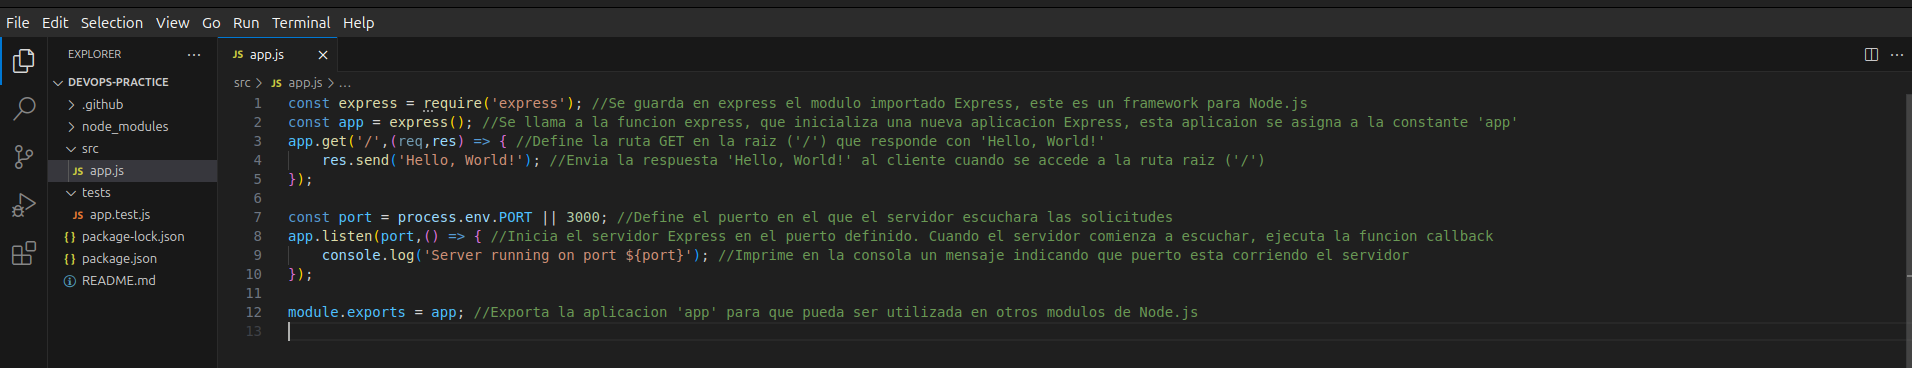
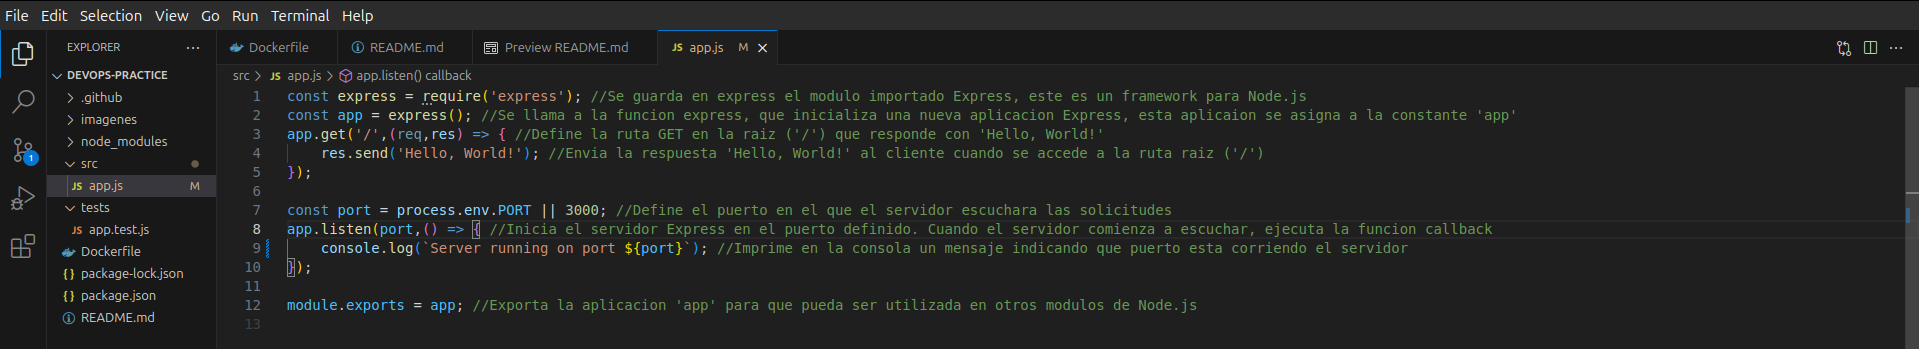
Corrección de app.js

diff --git a/src/app.js b/src/app.js
@@ -6,7 +6,7 @@ app.get('/',(req,res) => { //Define la ruta GET en la raiz ('/') que responde co
 
 const port = process.env.PORT || 3000; //Define el puerto en el que el servidor escuchara las solicitudes
 app.listen(port,() => { //Inicia el servidor Express en el puerto definido. Cuando el servidor comienza a escuchar, ejecuta la funcion callback
-    console.log('Server running on port ${port}'); //Imprime en la consola un mensaje indicando que puerto esta corriendo el servidor
+    console.log(`Server running on port ${port}`); //Imprime en la consola un mensaje indicando que puerto esta corriendo el servidor
 });
 
 module.exports = app; //Exporta la aplicacion 'app' para que pueda ser utilizada en otros modulos de Node.js
